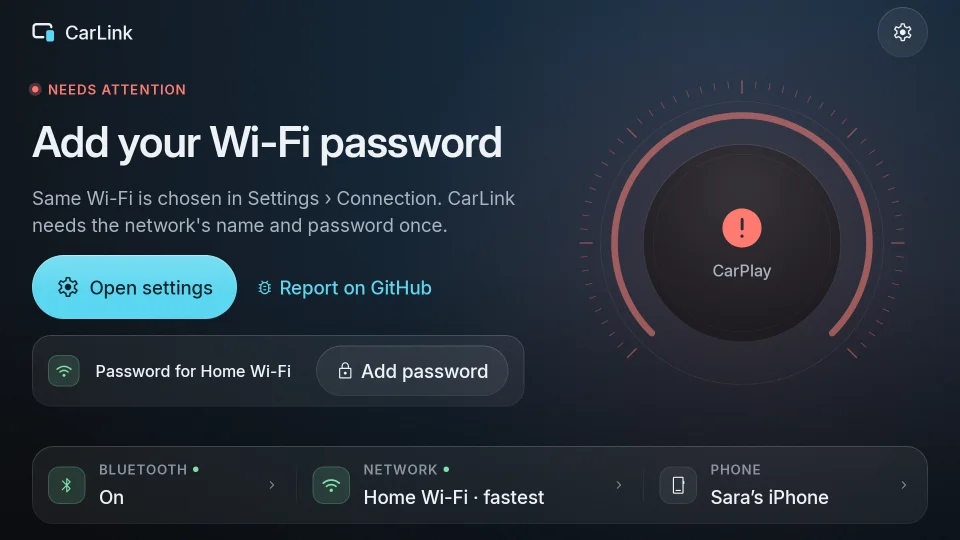
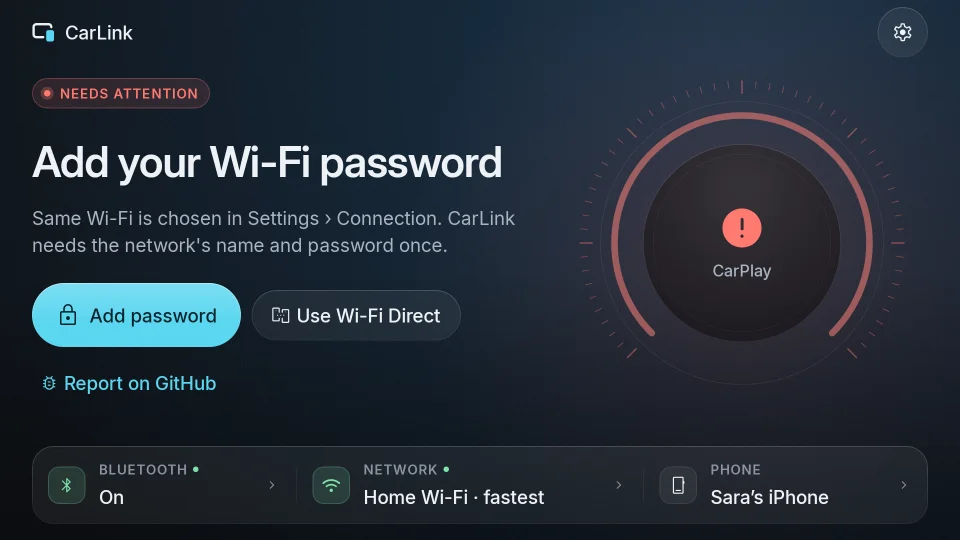
Ask for a missing Wi-Fi password right on Home, and recheck on any method change
- Same Wi-Fi or Car hotspot without its password no longer ends on "Open
  settings": Home offers Add password (masked, with Show, plus the network
  name when CarLink cannot read it) and Use Wi-Fi Direct. Saving it makes the
  blocked start check again, so it connects without another tap. This
  replaces the Same Wi-Fi card.
- User report: "Wi-Fi Direct works only when the Wi-Fi password is entered in
  both". No Wi-Fi Direct decision reads the saved Wi-Fi for either engine
  (Automatic never picks Same Wi-Fi; Android Auto Wi-Fi Direct writes no
  network name or password; CarPlay P2P ignores them), now pinned by a test.
  What made it look so: a start blocked on Same Wi-Fi was never checked
  again, so switching to Wi-Fi Direct (Home, Settings or the floating
  switcher, which wrote the store directly) still showed the old block
  until something else restarted it. The switcher now calls
  onSettingsChanged too.

Changed region(s): [[0.0312, 0.237, 0.5312, 0.7407], [0.0312, 0.1185, 0.2188, 0.2074]]

diff --git a/app/src/main/java/com/carlink/app/ui/home/HomeScreen.kt b/app/src/main/java/com/carlink/app/ui/home/HomeScreen.kt
@@ -14,7 +14,6 @@ import androidx.compose.foundation.layout.BoxWithConstraints
 import androidx.compose.foundation.layout.Column
 import androidx.compose.foundation.layout.ColumnScope
 import androidx.compose.foundation.layout.FlowRow
-import androidx.compose.foundation.layout.PaddingValues
 import androidx.compose.foundation.layout.Row
 import androidx.compose.foundation.layout.Spacer
 import androidx.compose.foundation.layout.WindowInsets
@@ -33,10 +32,10 @@ import androidx.compose.foundation.text.KeyboardOptions
 import androidx.compose.foundation.verticalScroll
 import androidx.compose.material3.AlertDialog
 import androidx.compose.material3.Icon
-import androidx.compose.material3.IconButton
 import androidx.compose.material3.MaterialTheme
 import androidx.compose.material3.OutlinedTextField
 import androidx.compose.material3.Text
+import androidx.compose.material3.TextButton
 import androidx.compose.runtime.Composable
 import androidx.compose.runtime.getValue
 import androidx.compose.runtime.mutableStateOf
@@ -83,7 +82,6 @@ import com.carlink.app.ui.components.rememberElapsedMillis
 import com.carlink.app.ui.premium.Atmosphere
 import com.carlink.app.ui.premium.DialReading
 import com.carlink.app.ui.premium.GlassButton
-import com.carlink.app.ui.premium.GlassCard
 import com.carlink.app.ui.premium.IonButton
 import com.carlink.app.ui.premium.LinkDial
 import com.carlink.app.ui.premium.ProgressLine
@@ -104,7 +102,9 @@ import com.carlink.core.core.Transport
 import com.carlink.core.detect.BluetoothAvailability
 import com.carlink.core.detect.PairedPhone
 import com.carlink.core.settings.ConnectionMethod
+import com.carlink.core.settings.WifiDetails
 import com.carlink.core.settings.WirelessPath
+import com.carlink.core.settings.isValid
 
 /** The modes of Home's stage (design/RESEARCH_PREMIUM_UX.md §7.3). */
 internal enum class HomeMode {
@@ -153,6 +153,7 @@ internal interface HomeActions {
     fun returnToProjection() {}
     fun resumeAutoConnect() {}
     fun saveSameWifi(ssid: String, password: String) {}
+    fun saveCarHotspot(ssid: String, password: String) {}
     fun setConnectionMethod(method: ConnectionMethod) {}
     /** The one-tap fix for [problem]: turn a radio on, open a permission screen, switch path. */
     fun fix(problem: LinkProblem) {}
@@ -185,6 +186,7 @@ fun HomeScreen(vm: CarLinkViewModel, navigate: (Route) -> Unit) {
             override fun returnToProjection() = vm.returnToProjection()
             override fun resumeAutoConnect() = vm.resumeAutoConnect()
             override fun saveSameWifi(ssid: String, password: String) = vm.saveSameWifi(ssid, password)
+            override fun saveCarHotspot(ssid: String, password: String) = vm.saveCarHotspot(ssid, password)
             override fun setConnectionMethod(method: ConnectionMethod) = vm.updateSettings { it.copy(connectionMethod = method) }
             override fun fix(problem: LinkProblem) = fixProblem(problem)
             override fun navigate(route: Route) = navigate(route)
@@ -629,18 +631,11 @@ private fun ColumnScope.HeroCopy(mode: HomeMode, ui: HomeUi, actions: HomeAction
                 GlassButton(stringResource(R.string.carlink_home_disconnect), actions::disconnect, icon = R.drawable.carlink_ic_link_off)
             }
             HomeMode.FAILED -> {
-                FailureActions(link, actions)
+                FailureActions(link, ui.network, actions)
                 // The log and the error go straight into a GitHub issue (no copying from the stereo).
                 TertiaryButton(stringResource(R.string.carlink_report_action), actions::reportProblem, icon = R.drawable.carlink_ic_bug_report)
             }
         }
-    }
-    // Same Wi-Fi is opt-in (Settings › Connection): the card only completes it once chosen, never advertises it.
-    val offerSameWifi = ui.network?.canOfferSameWifi == true && mode == HomeMode.FAILED &&
-        link.problem == LinkProblem.SAME_WIFI_DETAILS_MISSING
-    if (offerSameWifi) {
-        Spacer(Modifier.height(sectionGap))
-        SameWifiCard(ui.network!!.joinedSsid!!, actions, dense)
     }
     if (ui.connection.autoConnectPaused && (mode == HomeMode.READY_PHONE || mode == HomeMode.READY_EMPTY)) {
         Spacer(Modifier.height(dimens.targetGap))
@@ -690,7 +685,7 @@ internal fun failureCopy(link: LinkState): Pair<String, String> {
 }
 
 @Composable
-private fun FailureActions(link: LinkState, actions: HomeActions) {
+private fun FailureActions(link: LinkState, network: NetworkPreview?, actions: HomeActions) {
     val problem = link.problem
     val fix = oneTapFix(problem)
     if (problem != null && fix != null) {
@@ -707,8 +702,21 @@ private fun FailureActions(link: LinkState, actions: HomeActions) {
             { actions.navigate(Route.DIAGNOSTICS) }, icon = R.drawable.carlink_ic_monitor_heart)
         LinkProblem.NO_IPHONE_SELECTED -> IonButton(stringResource(R.string.carlink_home_pair_action), actions::pairPhone,
             icon = R.drawable.carlink_ic_bluetooth)
-        LinkProblem.CAR_HOTSPOT_DETAILS_MISSING, LinkProblem.SAME_WIFI_DETAILS_MISSING -> IonButton(
-            stringResource(R.string.carlink_home_open_settings), { actions.navigate(Route.SETTINGS) }, icon = R.drawable.carlink_ic_settings)
+        // Never given: ask for it right here; saving connects again (no dead end, no trip to Settings).
+        LinkProblem.CAR_HOTSPOT_DETAILS_MISSING, LinkProblem.SAME_WIFI_DETAILS_MISSING -> {
+            val hotspot = problem == LinkProblem.CAR_HOTSPOT_DETAILS_MISSING
+            var asking by rememberSaveable { mutableStateOf(false) }
+            IonButton(stringResource(R.string.carlink_home_same_wifi_enter), { asking = true }, icon = R.drawable.carlink_ic_lock)
+            GlassButton(stringResource(R.string.carlink_home_fix_use_direct), { actions.setConnectionMethod(ConnectionMethod.WIFI_DIRECT) },
+                icon = R.drawable.carlink_ic_p2p)
+            if (asking) {
+                val known = (if (hotspot) network?.savedHotspot else network?.joinedSsid ?: network?.savedSameWifi)?.ifBlank { null }
+                WifiPasswordDialog(hotspot, known, onSave = { ssid, password ->
+                    if (hotspot) actions.saveCarHotspot(ssid, password) else actions.saveSameWifi(ssid, password)
+                    asking = false
+                }, onDismiss = { asking = false })
+            }
+        }
         LinkProblem.PHONE_NOT_PAIRED -> IonButton(stringResource(R.string.carlink_home_pair_action), actions::pairPhone,
             icon = R.drawable.carlink_ic_bluetooth)
         LinkProblem.PAIRING_LOST -> IonButton(stringResource(R.string.carlink_home_open_bluetooth_settings),
@@ -822,67 +830,36 @@ private fun HomeStage(
 }
 
 /**
- * Completes Same Wi-Fi once the driver chose it and its password is missing: the network this
- * screen is on, as a compact banner; the password is entered in a dialog, so the keyboard never
- * reflows Home. [dense] drops the explanation line.
+ * The password (and the network's name, when CarLink does not know it) a wireless connection
+ * needs, asked right on Home: [hotspot] for the car hotspot, else Same Wi-Fi. Saving it makes the
+ * blocked start check again, so the connection goes ahead without another tap.
  */
 @Composable
-private fun SameWifiCard(ssid: String, actions: HomeActions, dense: Boolean) {
-    val dimens = CarLinkTokens.dimens
+internal fun WifiPasswordDialog(hotspot: Boolean, knownSsid: String?, onSave: (ssid: String, password: String) -> Unit,
+                               onDismiss: () -> Unit) {
     val scheme = MaterialTheme.colorScheme
-    var asking by rememberSaveable { mutableStateOf(false) }
-    val button = @Composable {
-        GlassButton(stringResource(R.string.carlink_home_same_wifi_enter), { asking = true }, icon = R.drawable.carlink_ic_lock)
-    }
-    GlassCard(Modifier.widthIn(max = 760.dp).fillMaxWidth(), shape = RoundedCornerShape(28.dp),
-        contentPadding = PaddingValues(horizontal = dimens.gutter, vertical = dimens.targetGap)) {
-        BoxWithConstraints {
-            // The button sits beside the text only when the text keeps a comfortable measure.
-            val inline = maxWidth >= dimens.contentMaxWidth * 0.45f
-            @Composable
-            fun copy(modifier: Modifier) = Row(modifier, verticalAlignment = Alignment.CenterVertically) {
-                com.carlink.app.ui.premium.IconTile(R.drawable.carlink_ic_wifi, tint = CarLinkTokens.colors.success,
-                    size = dimens.avatarRow * 0.85f)
-                Spacer(Modifier.width(dimens.targetGap * 1.5f))
-                Column {
-                    Text(stringResource(R.string.carlink_home_same_wifi_title, isolate(ssid)),
-                        style = MaterialTheme.typography.titleSmall, color = scheme.onSurface)
-                    if (!dense) {
-                        Text(stringResource(R.string.carlink_home_same_wifi_body), style = MaterialTheme.typography.bodyMedium,
-                            color = scheme.onSurfaceVariant)
-                    }
-                }
-            }
-            if (inline) {
-                Row(verticalAlignment = Alignment.CenterVertically) {
-                    copy(Modifier.weight(1f))
-                    Spacer(Modifier.width(dimens.targetGap))
-                    button()
-                }
-            } else {
-                Column(verticalArrangement = Arrangement.spacedBy(dimens.targetGap)) {
-                    copy(Modifier)
-                    button()
-                }
-            }
-        }
-    }
-    if (asking) SameWifiDialog(ssid, actions, onDismiss = { asking = false })
-}
-
-@Composable
-private fun SameWifiDialog(ssid: String, actions: HomeActions, onDismiss: () -> Unit) {
-    val scheme = MaterialTheme.colorScheme
+    var ssid by rememberSaveable { mutableStateOf(knownSsid.orEmpty()) }
     var password by rememberSaveable { mutableStateOf("") }
     var reveal by rememberSaveable { mutableStateOf(false) }
-    val valid = password.length in 8..63
-    val showError = password.isNotEmpty() && !valid
+    val valid = password.isNotEmpty() && WifiDetails(ssid, password).isValid()
+    val showError = password.isNotEmpty() && password.length !in 8..63
     AlertDialog(
         onDismissRequest = onDismiss,
-        title = { Text(stringResource(R.string.carlink_home_same_wifi_title, isolate(ssid))) },
+        title = {
+            Text(when {
+                hotspot -> stringResource(R.string.carlink_home_error_hotspot_details_title)
+                knownSsid != null -> stringResource(R.string.carlink_home_same_wifi_title, isolate(knownSsid))
+                else -> stringResource(R.string.carlink_home_wifi_dialog_title)
+            })
+        },
         text = {
             Column(verticalArrangement = Arrangement.spacedBy(CarLinkTokens.dimens.targetGap)) {
-                Text(stringResource(R.string.carlink_home_same_wifi_body), color = scheme.onSurfaceVariant)
+                Text(stringResource(R.string.carlink_home_wifi_dialog_body), color = scheme.onSurfaceVariant)
+                if (knownSsid == null) {
+                    OutlinedTextField(value = ssid, onValueChange = { ssid = it }, singleLine = true,
+                        label = { Text(stringResource(R.string.carlink_settings_wifi_name)) },
+                        shape = RoundedCornerShape(20.dp), modifier = Modifier.fillMaxWidth())
+                }
                 OutlinedTextField(
                     value = password, onValueChange = { password = it }, singleLine = true,
                     label = { Text(stringResource(R.string.carlink_home_same_wifi_password)) },
@@ -891,8 +868,8 @@ private fun SameWifiDialog(ssid: String, actions: HomeActions, onDismiss: () -> 
                     visualTransformation = if (reveal) VisualTransformation.None else PasswordVisualTransformation(),
                     keyboardOptions = KeyboardOptions(keyboardType = KeyboardType.Password),
                     trailingIcon = {
-                        IconButton(onClick = { reveal = !reveal }) {
-                            Icon(painterResource(R.drawable.carlink_ic_lock), stringResource(R.string.carlink_home_same_wifi_show))
+                        TextButton(onClick = { reveal = !reveal }) {
+                            Text(stringResource(if (reveal) R.string.carlink_settings_wifi_hide else R.string.carlink_settings_wifi_show))
                         }
                     },
                     shape = RoundedCornerShape(20.dp),
@@ -901,9 +878,8 @@ private fun SameWifiDialog(ssid: String, actions: HomeActions, onDismiss: () -> 
             }
         },
         confirmButton = {
-            IonButton(stringResource(R.string.carlink_home_same_wifi_save), {
-                if (valid) { actions.saveSameWifi(ssid, password); onDismiss() }
-            }, icon = R.drawable.carlink_ic_check)
+            IonButton(stringResource(R.string.carlink_home_same_wifi_save), { if (valid) onSave(ssid, password) },
+                icon = R.drawable.carlink_ic_check)
         },
         dismissButton = { GlassButton(stringResource(R.string.carlink_home_cancel), onDismiss) },
         containerColor = scheme.surfaceContainerHigh,

diff --git a/carlink-core/src/test/java/com/carlink/core/connection/DevicePreflightTest.kt b/carlink-core/src/test/java/com/carlink/core/connection/DevicePreflightTest.kt
@@ -79,6 +79,36 @@ class DevicePreflightTest {
         assertEquals(listOf(Problem.SAME_WIFI_NOT_JOINED), sameWifi(wifi = WifiEnvironment(1, "home", null)))
     }
 
+    // User report (2026-10-20): "Wi-Fi Direct works only when the Wi-Fi password is entered in both".
+    // No Wi-Fi Direct decision reads the saved Same Wi-Fi details, for either engine.
+    @Test fun wifiDirectNeedsNoSavedWifiForEitherEngine() {
+        val none = UnifiedSettings()
+        val saved = UnifiedSettings(homeWifi = WifiDetails("Home", "homepassword"))
+        for (engine in Engine.entries) {
+            // Automatic never picks Same Wi-Fi, saved or not.
+            for (s in listOf(none, saved)) {
+                val paths = WirelessPolicy.candidates(WirelessPolicy.Inputs(engine, s, onHome, headUnit = false))
+                assertEquals(listOf(WirelessPath.WIFI_DIRECT), paths)
+            }
+            assertEquals(emptyList<Problem>(), DevicePreflight.check(wireless.copy(engine = engine), WirelessPath.WIFI_DIRECT, ready, none, onHome))
+        }
+        val carPlay = CarPlayPreflightInput(
+            transport = Transport.WIRELESS, path = WirelessPath.WIFI_DIRECT, sdkInt = 35, authenticationReady = true,
+            grantedPermissions = CarPlayPreflight.requiredPermissions(Transport.WIRELESS, WirelessPath.WIFI_DIRECT, 35).toSet(),
+            vpnConsentGranted = false, bluetoothOn = true, bondedAddresses = setOf("AA:BB"), iphoneAddress = "AA:BB",
+            wifiOn = true, locationOn = true, homeWifi = WifiDetails(), carHotspot = WifiDetails(),
+            joinedNetworks = 0, joinedSsid = null, carHotspotOn = null, carHotspotCanStart = false,
+        )
+        assertEquals(emptyList<CarPlayProblem>(), CarPlayPreflight.check(carPlay))
+        // Android Auto's Wi-Fi Direct route carries no network name or password at all.
+        for (s in listOf(none, saved)) {
+            val v = com.carlink.core.connection.aa.AaSessionSettings.values(s, Transport.WIRELESS, WirelessPath.WIFI_DIRECT,
+                com.carlink.core.settings.VehicleProfile.GENERIC, "Car", 320, onHome).values
+            assertEquals("", v["hotspot-ssid"])
+            assertEquals("", v["hotspot-password"])
+        }
+    }
+
     @Test fun hotspotNeedsItsDetailsAndToBeOn() {
         val s = UnifiedSettings(carHotspot = WifiDetails("CarAP", "carpassword"))
         assertEquals(emptyList<Problem>(), check(path = WirelessPath.CAR_HOTSPOT, settings = s))

diff --git a/app/src/main/java/com/carlink/app/ui/CarLinkViewModel.kt b/app/src/main/java/com/carlink/app/ui/CarLinkViewModel.kt
@@ -76,8 +76,9 @@ data class NetworkPreview(
     val ssid: String?,
     /** The car's current Wi-Fi when exactly one is joined and its name is readable. */
     val joinedSsid: String? = null,
-    /** True when [joinedSsid] is not the saved "same Wi-Fi" network yet. */
-    val canOfferSameWifi: Boolean = false,
+    /** The saved Same Wi-Fi and car hotspot names ("" when none): Home's password prompt shows them. */
+    val savedSameWifi: String = "",
+    val savedHotspot: String = "",
     /** The driver's choice; [path] is what it resolves to right now. */
     val method: ConnectionMethod = ConnectionMethod.AUTOMATIC,
 )
@@ -342,15 +343,12 @@ class CarLinkViewModel(application: Application) : AndroidViewModel(application)
         } else settings
         val path = WirelessPolicy.candidates(WirelessPolicy.Inputs(engine, effective, wifi,
             headUnit = com.carlink.app.ui.theme.UiProfileDetector.looksLikeCarDisplay(app))).first()
-        val saved = settings.homeWifi
         _network.value = NetworkPreview(
             path = path,
             ssid = if (path == WirelessPath.SAME_WIFI) wifi.joinedSsid else null,
             joinedSsid = wifi.joinedSsid,
-            // Offered again when the saved entry cannot work: no password for a secured network,
-            // or a phone already refused the one saved.
-            canOfferSameWifi = wifi.joinedSsid != null && (wifi.joinedSsid != saved.ssid ||
-                (saved.password.isEmpty() && wifi.joinedOpen != true) || wifi.androidAutoRefusedJoined),
+            savedSameWifi = settings.homeWifi.ssid,
+            savedHotspot = effective.carHotspot.ssid,
             method = settings.connectionMethod,
         )
     }
@@ -358,6 +356,10 @@ class CarLinkViewModel(application: Application) : AndroidViewModel(application)
     /** Remembers the car's current Wi-Fi so wireless CarPlay can use it (Same Wi-Fi). */
     fun saveSameWifi(ssid: String, password: String) =
         updateSettings { it.copy(homeWifi = com.carlink.core.settings.WifiDetails(ssid, password)) }
+
+    /** Remembers the car hotspot's name and password (Car hotspot). */
+    fun saveCarHotspot(ssid: String, password: String) =
+        updateSettings { it.copy(carHotspot = com.carlink.core.settings.WifiDetails(ssid, password)) }
 
     /**
      * Saves a change to the unified settings and writes it into both engines. A blocked start

diff --git a/app/src/test/java/com/carlink/app/gallery/GalleryEntries.kt b/app/src/test/java/com/carlink/app/gallery/GalleryEntries.kt
@@ -148,6 +148,11 @@ private fun homeEntries(): List<GalleryEntry> = with(HomeFakes) { listOf(
         HomeContent(ui(link = failed(LinkProblem.SAME_WIFI_DETAILS_MISSING), phones = listOf(iphone, pixel),
             network = sameWifiNoPassword), actions)
     },
+    // "Add password" on the state above: the password asked right on Home (masked, with Show), then it connects again.
+    home("dialog-wifi-password", opensWindow = true) {
+        HomeContent(ui(link = failed(LinkProblem.SAME_WIFI_DETAILS_MISSING), network = sameWifiNoPassword), actions)
+        com.carlink.app.ui.home.WifiPasswordDialog(hotspot = false, knownSsid = "Home Wi-Fi", onSave = { _, _ -> }, onDismiss = {})
+    },
     // Same Wi-Fi chosen, but this screen is on another network (or none): join it, or use Wi-Fi Direct.
     home("failed-same-wifi-not-joined") {
         HomeContent(ui(link = failed(LinkProblem.SAME_WIFI_NOT_JOINED), network = sameWifi), actions)

diff --git a/app/src/test/java/com/carlink/app/gallery/HomeFakes.kt b/app/src/test/java/com/carlink/app/gallery/HomeFakes.kt
@@ -26,7 +26,7 @@ internal object HomeFakes {
 
     val hotspot = NetworkPreview(WirelessPath.CAR_HOTSPOT, ssid = null)
     /** Same Wi-Fi chosen, the screen on "Home Wi-Fi", no password saved yet. */
-    val sameWifiNoPassword = NetworkPreview(WirelessPath.SAME_WIFI, ssid = "Home Wi-Fi", joinedSsid = "Home Wi-Fi", canOfferSameWifi = true)
+    val sameWifiNoPassword = NetworkPreview(WirelessPath.SAME_WIFI, ssid = "Home Wi-Fi", joinedSsid = "Home Wi-Fi", savedSameWifi = "Home Wi-Fi")
     val sameWifi = NetworkPreview(WirelessPath.SAME_WIFI, ssid = "Home Wi-Fi", joinedSsid = "Home Wi-Fi")
 
     val actions: HomeActions = object : HomeActions {}

diff --git a/app/src/main/java/com/carlink/app/switcher/SwitcherController.kt b/app/src/main/java/com/carlink/app/switcher/SwitcherController.kt
@@ -373,6 +373,8 @@ object SwitcherController {
             // Read just before writing: Home or Settings may have changed other values.
             val store = UnifiedSettingsStore(app)
             store.save(store.load().copy(connectionMethod = method))
+            // A start blocked on the old method (e.g. Same Wi-Fi without its password) checks again.
+            Connection.get(app).onSettingsChanged()
             panelUi = panelUi?.copy(method = method, page = SwitcherPage.MAIN)
         }
 

diff --git a/docs/screenshots/README.md b/docs/screenshots/README.md
@@ -4,7 +4,7 @@ An index of every CarLink screen state, rendered by
 `app/src/test/java/com/carlink/app/gallery/ScreenshotGallery.kt` (Robolectric, native graphics)
 from each screen's stateless content (`HomeContent`, `SettingsContent`, `DiagnosticsContent`,
 `AboutContent`, `SetupContent`) with fake state. Nothing here comes from a real phone or head unit. Files are named
-`<area>/<area>_<state>_<config>_<theme>.png`; 844 images in total.
+`<area>/<area>_<state>_<config>_<theme>.png`; 853 images in total.
 
 ## Regenerate
 
@@ -42,7 +42,7 @@ captured. Sheets and dialogs (`sheet-*`) are not rendered in `car-split-third` (
 
 ## Screens
 
-### Home — `home/` (304 images)
+### Home — `home/` (313 images)
 
 Every `failed-*` state offers **Report on GitHub** under its actions. The low-end head-unit configs
 also render `failed-engine`
@@ -65,7 +65,8 @@ states listed in `lowEndEntries` (`ScreenshotGallery.kt`).
 | `sheet-phones` — Phones sheet (iPhone, Android phone, unidentified device) | [img](home/home_sheet-phones_tablet_dark.webp) | [img](home/home_sheet-phones_tablet_light.webp) | [img](home/home_sheet-phones_car-landscape_dark.webp) | [img](home/home_sheet-phones_car-landscape_light.webp) | [img](home/home_sheet-phones_car-1080p_dark.webp) | — | [img](home/home_sheet-phones_phone-portrait_dark.webp) | [img](home/home_sheet-phones_phone-portrait_light.webp) | [img](home/home_sheet-phones_phone-landscape_dark.webp) | [img](home/home_sheet-phones_tablet-portrait_dark.webp) |
 | `connecting-not-answering` — Wireless attempt with no answer from the iPhone for 10 s: calm caution, held at step 1, Try again / Cancel | [img](home/home_connecting-not-answering_tablet_dark.webp) | [img](home/home_connecting-not-answering_tablet_light.webp) | [img](home/home_connecting-not-answering_car-landscape_dark.webp) | [img](home/home_connecting-not-answering_car-landscape_light.webp) | [img](home/home_connecting-not-answering_car-1080p_dark.webp) | [img](home/home_connecting-not-answering_car-split-third_dark.webp) | [img](home/home_connecting-not-answering_phone-portrait_dark.webp) | [img](home/home_connecting-not-answering_phone-portrait_light.webp) | [img](home/home_connecting-not-answering_phone-landscape_dark.webp) | [img](home/home_connecting-not-answering_tablet-portrait_dark.webp) |
 | `failed-wifi-off` — Failed: Wi-Fi is off (one-tap Turn on) | [img](home/home_failed-wifi-off_tablet_dark.webp) | [img](home/home_failed-wifi-off_tablet_light.webp) | [img](home/home_failed-wifi-off_car-landscape_dark.webp) | [img](home/home_failed-wifi-off_car-landscape_light.webp) | [img](home/home_failed-wifi-off_car-1080p_dark.webp) | [img](home/home_failed-wifi-off_car-split-third_dark.webp) | [img](home/home_failed-wifi-off_phone-portrait_dark.webp) | [img](home/home_failed-wifi-off_phone-portrait_light.webp) | [img](home/home_failed-wifi-off_phone-landscape_dark.webp) | [img](home/home_failed-wifi-off_tablet-portrait_dark.webp) |
-| `failed-same-wifi-password` — Same Wi-Fi chosen in Settings, its password missing: the card completes it (Home never advertises Same Wi-Fi) | [img](home/home_failed-same-wifi-password_tablet_dark.webp) | [img](home/home_failed-same-wifi-password_tablet_light.webp) | [img](home/home_failed-same-wifi-password_car-landscape_dark.webp) | [img](home/home_failed-same-wifi-password_car-landscape_light.webp) | [img](home/home_failed-same-wifi-password_car-1080p_dark.webp) | [img](home/home_failed-same-wifi-password_car-split-third_dark.webp) | [img](home/home_failed-same-wifi-password_phone-portrait_dark.webp) | [img](home/home_failed-same-wifi-password_phone-portrait_light.webp) | [img](home/home_failed-same-wifi-password_phone-landscape_dark.webp) | [img](home/home_failed-same-wifi-password_tablet-portrait_dark.webp) |
+| `failed-same-wifi-password` — Same Wi-Fi chosen in Settings, its password missing: Add password right here, or Use Wi-Fi Direct (Home never advertises Same Wi-Fi) | [img](home/home_failed-same-wifi-password_tablet_dark.webp) | [img](home/home_failed-same-wifi-password_tablet_light.webp) | [img](home/home_failed-same-wifi-password_car-landscape_dark.webp) | [img](home/home_failed-same-wifi-password_car-landscape_light.webp) | [img](home/home_failed-same-wifi-password_car-1080p_dark.webp) | [img](home/home_failed-same-wifi-password_car-split-third_dark.webp) | [img](home/home_failed-same-wifi-password_phone-portrait_dark.webp) | [img](home/home_failed-same-wifi-password_phone-portrait_light.webp) | [img](home/home_failed-same-wifi-password_phone-landscape_dark.webp) | [img](home/home_failed-same-wifi-password_tablet-portrait_dark.webp) |
+| `dialog-wifi-password` — Add password on that state: the password asked right on Home (masked, Show), saving connects again | [img](home/home_dialog-wifi-password_tablet_dark.webp) | [img](home/home_dialog-wifi-password_tablet_light.webp) | [img](home/home_dialog-wifi-password_car-landscape_dark.webp) | [img](home/home_dialog-wifi-password_car-landscape_light.webp) | [img](home/home_dialog-wifi-password_car-1080p_dark.webp) | — | [img](home/home_dialog-wifi-password_phone-portrait_dark.webp) | [img](home/home_dialog-wifi-password_phone-portrait_light.webp) | [img](home/home_dialog-wifi-password_phone-landscape_dark.webp) | [img](home/home_dialog-wifi-password_tablet-portrait_dark.webp) |
 | `failed-same-wifi-not-joined` — Same Wi-Fi chosen, but this screen is on another network or none: Open Wi-Fi, or Use Wi-Fi Direct | [img](home/home_failed-same-wifi-not-joined_tablet_dark.webp) | [img](home/home_failed-same-wifi-not-joined_tablet_light.webp) | [img](home/home_failed-same-wifi-not-joined_car-landscape_dark.webp) | [img](home/home_failed-same-wifi-not-joined_car-landscape_light.webp) | [img](home/home_failed-same-wifi-not-joined_car-1080p_dark.webp) | [img](home/home_failed-same-wifi-not-joined_car-split-third_dark.webp) | [img](home/home_failed-same-wifi-not-joined_phone-portrait_dark.webp) | [img](home/home_failed-same-wifi-not-joined_phone-portrait_light.webp) | [img](home/home_failed-same-wifi-not-joined_phone-landscape_dark.webp) | [img](home/home_failed-same-wifi-not-joined_tablet-portrait_dark.webp) |
 | `failed-pairing-lost` — Blocked: Android 16+ lost the phone's pairing (Open Bluetooth settings) | [img](home/home_failed-pairing-lost_tablet_dark.webp) | [img](home/home_failed-pairing-lost_tablet_light.webp) | [img](home/home_failed-pairing-lost_car-landscape_dark.webp) | [img](home/home_failed-pairing-lost_car-landscape_light.webp) | [img](home/home_failed-pairing-lost_car-1080p_dark.webp) | [img](home/home_failed-pairing-lost_car-split-third_dark.webp) | [img](home/home_failed-pairing-lost_phone-portrait_dark.webp) | [img](home/home_failed-pairing-lost_phone-portrait_light.webp) | [img](home/home_failed-pairing-lost_phone-landscape_dark.webp) | [img](home/home_failed-pairing-lost_tablet-portrait_dark.webp) |
 | `failed-iphone-unreached` — Failed: the iPhone could not reach the screen over the network (Use Wi-Fi Direct / Try again) | [img](home/home_failed-iphone-unreached_tablet_dark.webp) | [img](home/home_failed-iphone-unreached_tablet_light.webp) | [img](home/home_failed-iphone-unreached_car-landscape_dark.webp) | [img](home/home_failed-iphone-unreached_car-landscape_light.webp) | [img](home/home_failed-iphone-unreached_car-1080p_dark.webp) | [img](home/home_failed-iphone-unreached_car-split-third_dark.webp) | [img](home/home_failed-iphone-unreached_phone-portrait_dark.webp) | [img](home/home_failed-iphone-unreached_phone-portrait_light.webp) | [img](home/home_failed-iphone-unreached_phone-landscape_dark.webp) | [img](home/home_failed-iphone-unreached_tablet-portrait_dark.webp) |

diff --git a/docs/TROUBLESHOOTING.md b/docs/TROUBLESHOOTING.md
@@ -59,7 +59,7 @@ button to turn it on; CarLink checks again when you come back. Wi-Fi does not ne
 connected to a network.
 
 **"Add your Wi-Fi password".** Same Wi-Fi is chosen in Settings › Connection and CarLink does not
-have the network's name or password yet. Add the password on the card (or in Settings ›
+have the network's name or password yet. Tap **Add password** and type it (or use Settings ›
 Connection); CarLink checks again as soon as it is saved.
 
 **"This screen isn't on your Wi-Fi".** Same Wi-Fi is chosen, but this screen is on another network
@@ -74,7 +74,7 @@ Wi-Fi Direct**, or plug in with a cable.
 or switch the connection type to Wi-Fi Direct.
 
 **"The car hotspot is off" / "Add the car hotspot".** Turn the hotspot on in the car's settings
-and add its name and password once in Settings, or plug your phone in with a cable.
+and add its name and password once (**Add password** on Home), or plug your phone in with a cable.
 
 **"The wireless link was too weak".** Keep the phone close to the screen and try again, or use a
 cable.
